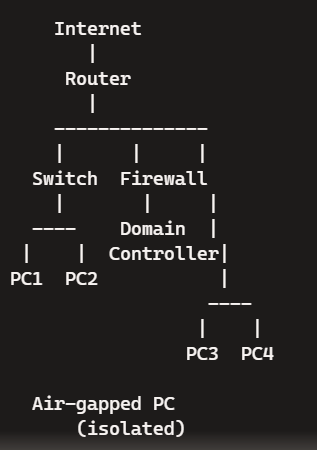
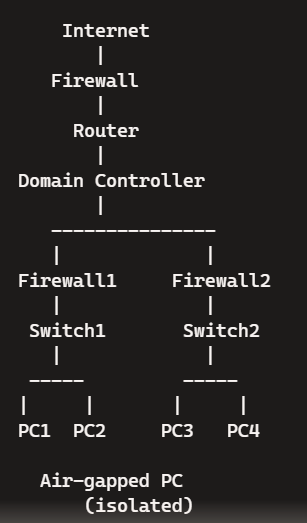
lecture 22 - diagrams

diff --git a/Lecture 22 -Network Structure_Security.md b/Lecture 22 -Network Structure_Security.md
@@ -46,7 +46,13 @@ As networks become more complex and interconnected, safeguarding them becomes in
 
 Figure 1: Domain Controller
 
-![Domain Controller](img/img22_1.png)
+![Domain Controller](img/img22_3.png)
+
+Multiple domains with two way trust structure.
+
+Reference:
+
+<https://support.riverbed.com/bin/support/static/u0hl9kshm7059oq1eromr6sd75/html/49flk91i6pcrupl971sgtgfrc/sh_9.7_dg_protocols_html/index.html#page/sh_9.7_dg_protocols/smb.html>
 
 ### 6. Network Subdomains
 
@@ -63,6 +69,27 @@ Figure 1: Domain Controller
 - **Pros/Cons**:
   - *Pros*: Improves security by isolating sensitive data, reduces attack surface, limits the spread of malware.
   - *Cons*: Increased complexity, higher costs for setup and maintenance.
+
+Figure 2: Network Segmentation, Physical
+
+![Network Segmentation](img/img22_2.png)
+
+Reference:
+
+<https://www.researchgate.net/figure/shows-an-example-of-the-network-diagram-configuration_fig1_255248242>
+
+Figure 3: Network Segmentation, Physical
+
+![Network Segmentation](img/img22_1.png)
+
+
+Figure 4: Network Segmentation, Logical
+
+![Network Segmentation](img/img22_4.png)
+
+Reference:
+
+<https://www.linkedin.com/pulse/why-do-we-separate-networks-using-vlan-mohsen-hayati/>
 
 ### Summary Table
 
